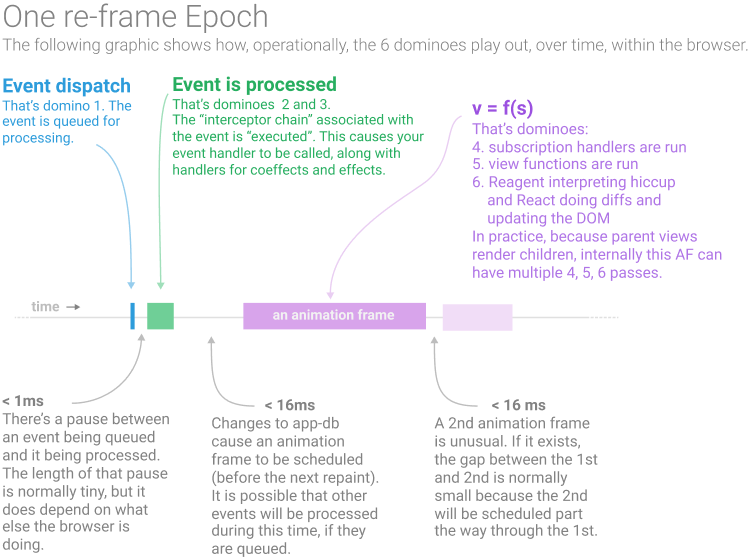
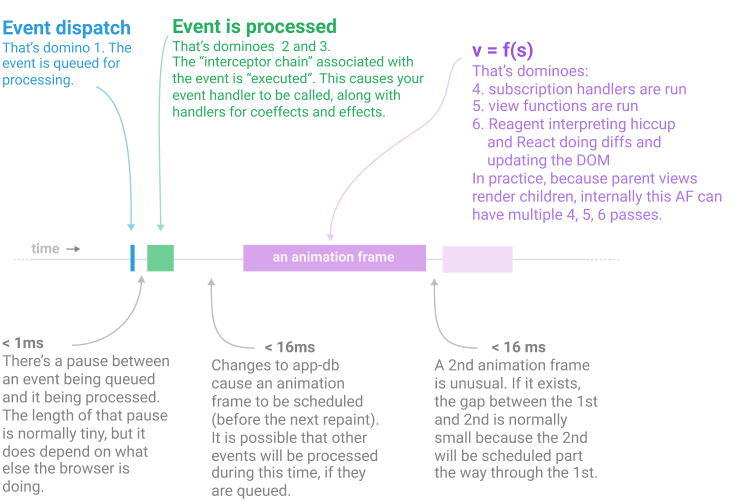
Remove headings from Epoch graphic.  Add it back in as text within the document.

diff --git a/docs/AnEpoch.md b/docs/AnEpoch.md
@@ -1,3 +1,6 @@
+## One re-frame Epoch 
+
+The following graphic shows how, operationally, the six dominoes play out, over time, within the browser. 
 
 <img src="/images/epoch.png?raw=true">
 
